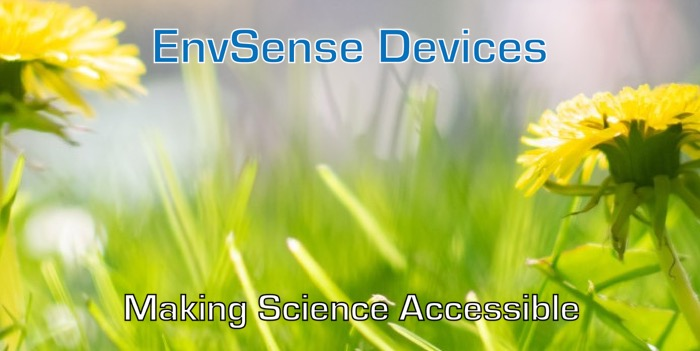
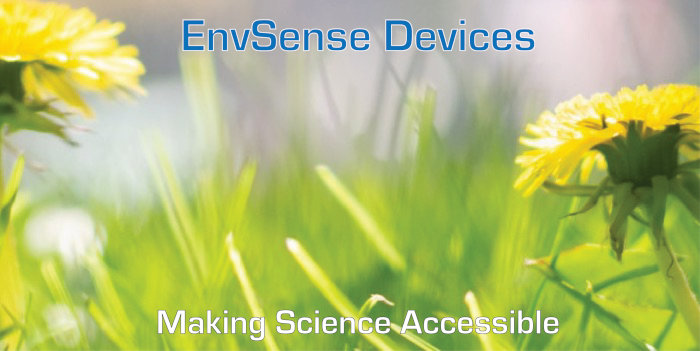
update slider

diff --git a/static/js/common.js b/static/js/common.js
@@ -1,6 +1,7 @@
 $(document).ready(function() {
     if (window.location.pathname === '/' || window.location.pathname === '/index.html') {
         // Static slider
+
         var sliderContainerWidth = parseInt($('#slider').width())
         var leftPosition = parseInt( ( ( sliderContainerWidth  - 200 ) / 2 ) )
 
@@ -13,6 +14,7 @@ $(document).ready(function() {
         $(".slide-2").hide()
         $(".slide-3").hide()
         firstSlide(leftPosition)
+        console.log(leftPosition)
 
         // Featured product slider
         $("#content-slider").lightSlider({
@@ -27,6 +29,8 @@ $(document).ready(function() {
         })
     }
 });
+
+$(window).on('resize',function(){ location.reload();});
 
 // Slide 1
 function firstSlide(leftPosition) {

diff --git a/static/css/dashboard.css b/static/css/dashboard.css
@@ -30,7 +30,7 @@ body {
 }
 
 table {
-  width: 80%;
+  width: 96%;
   border-collapse: collapse;
 }
 
@@ -68,16 +68,16 @@ div#header div.icon {
 div#header div.menu {
   width: 5%;
   text-align: left;
-  padding-top: 25px;
+  padding-top: 32px;
 }
 
 div#header div.icon {
-  width: 10%;
+  width: 5%;
   display: none;
 }
 
 div#header div.menu > a {
-  padding-left: 10px;
+  padding-left: 12px;
 }
 
 ul.dropdown-menu {
@@ -116,7 +116,7 @@ ul.dropdown-submenu{
 }
 
 div#header div.logo {
-  width: 84%;
+  width: 89%;
   float: left;
   text-align: center;
   height: 95px;
